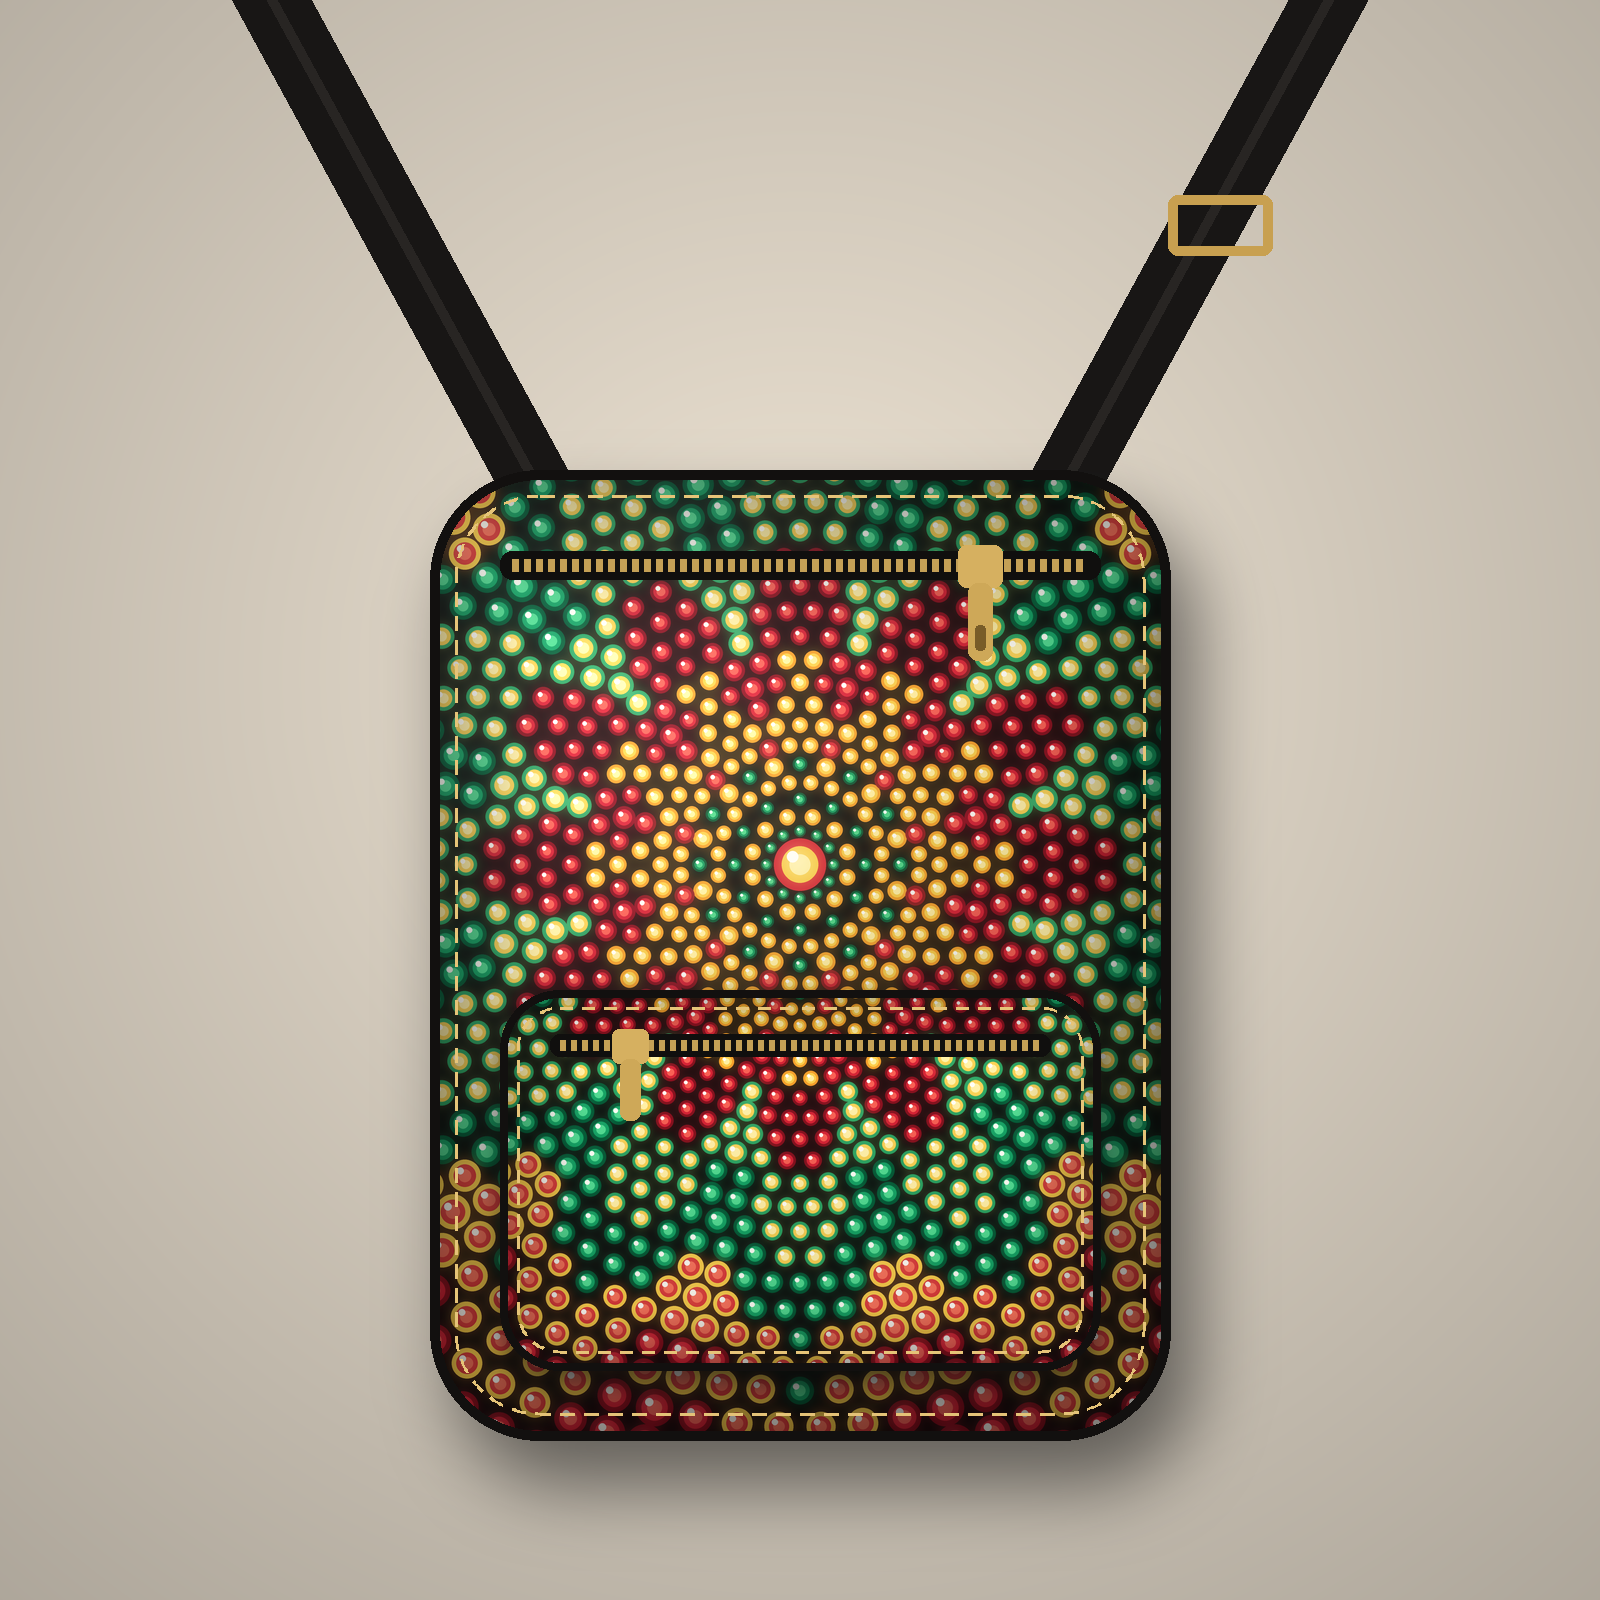
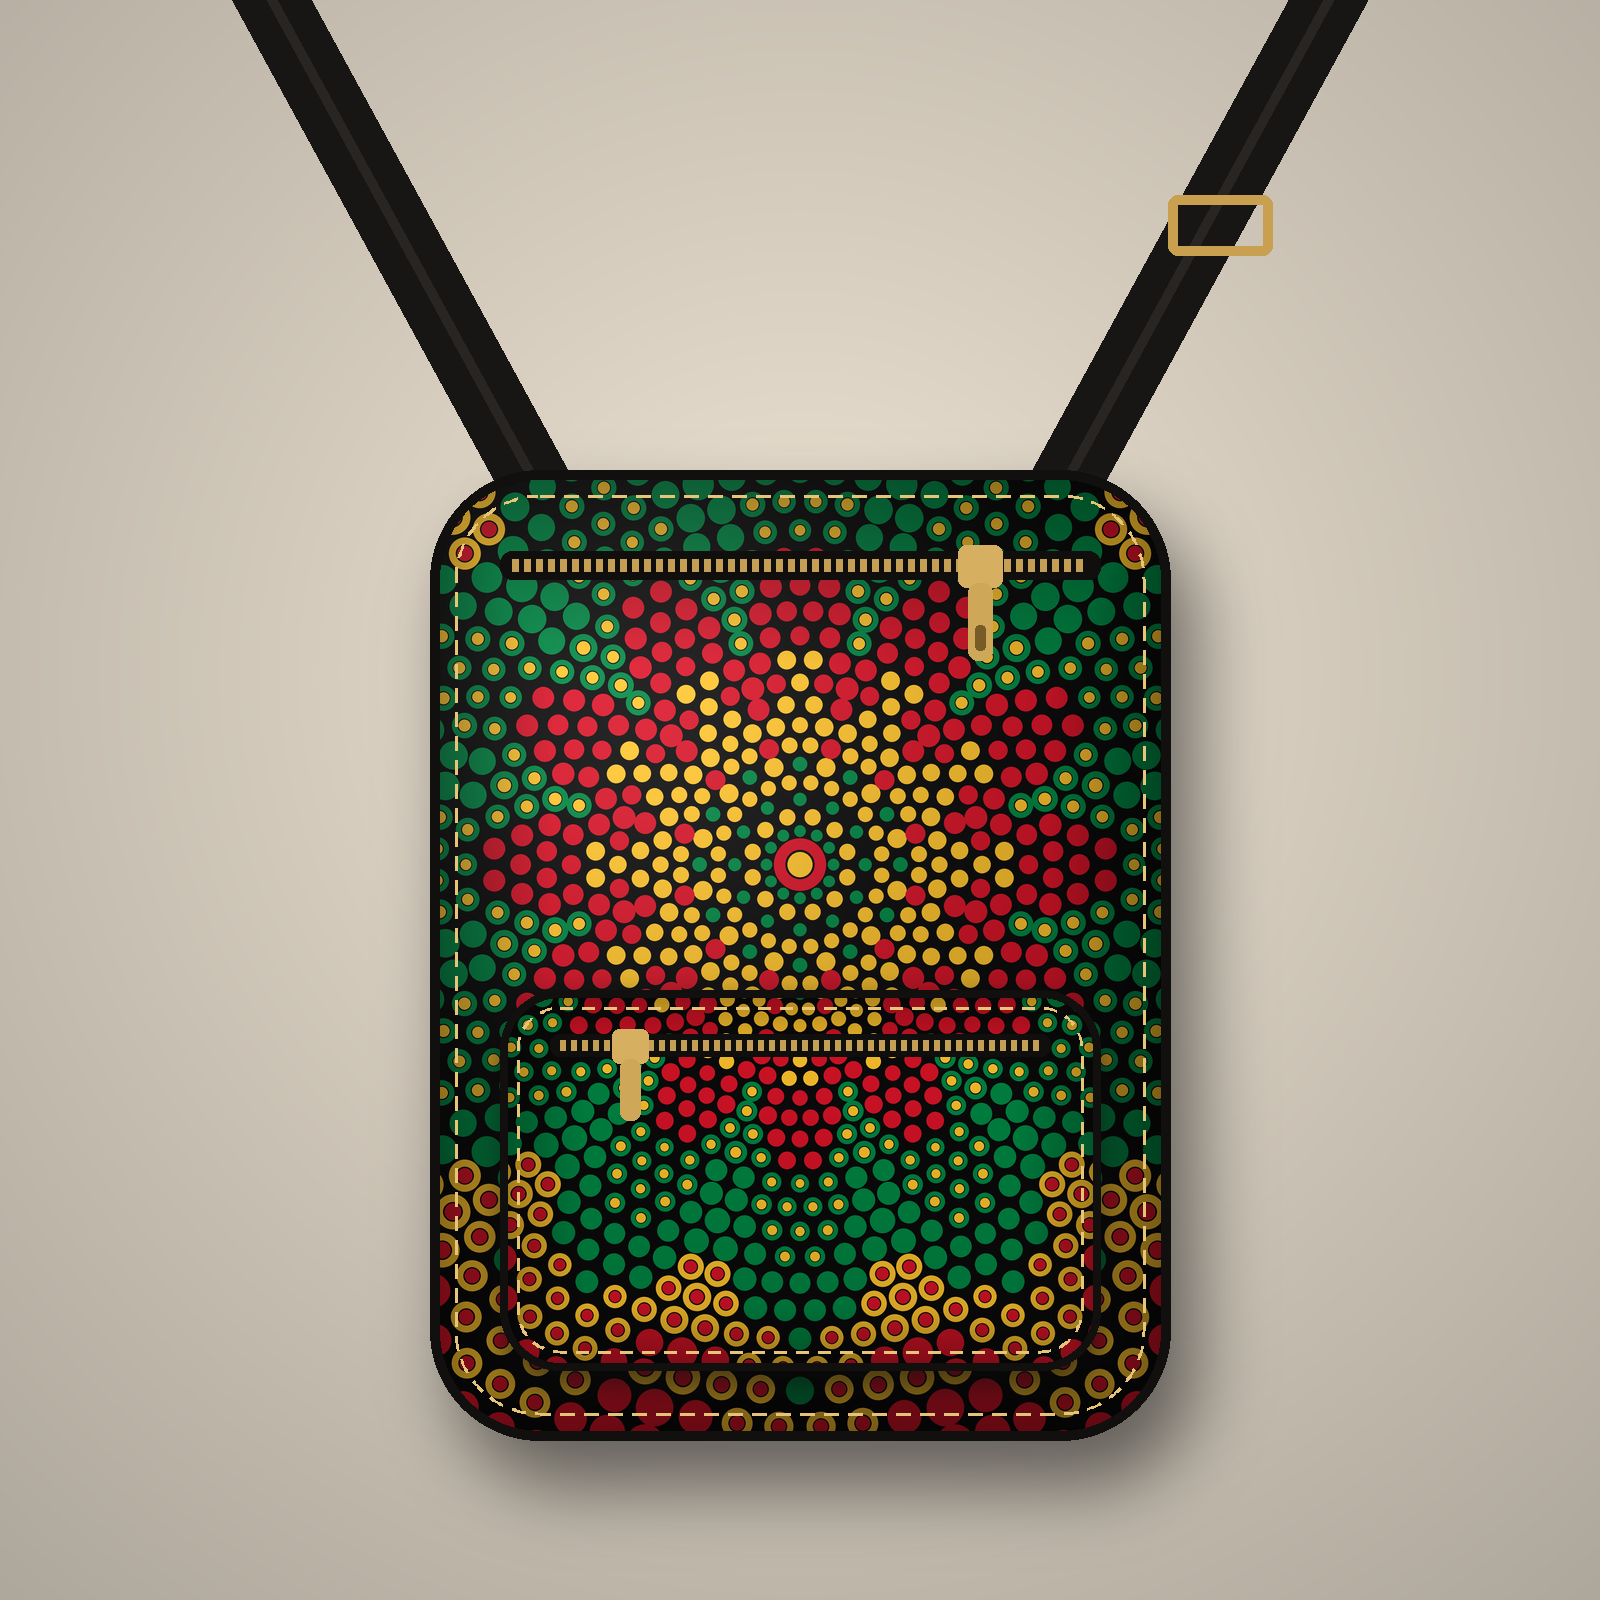
Mandala: use exactly black, gold, green and red
Drop tints, white shines and the glow that mixed the colors; dots are
flat with crisp black rings between the two colors of each dot.

Claude-Session: https://claude.ai/code/session_01Mt1Tg14bgvqpkRSeX5tTDt

Changed region(s): [[0.25, 0.2812, 0.75, 0.9062]]

diff --git a/heritage-crossbody-bag/make_mandala_design.py b/heritage-crossbody-bag/make_mandala_design.py
@@ -1,9 +1,9 @@
 """Dot-painting mandala (kaleidoscope) placement design for the crossbody bag.
 
 Usage: python3 make_mandala_design.py <out_dir>
-Densely packed layered 3D dots in the African heritage palette (red, black,
-green, gold) form scalloped petal bands radiating from a glowing center,
-reaching every corner, with a soft luminous glow.
+Densely packed dot-in-dot painting using exactly four colors (black, gold,
+green, red) forms scalloped petal bands radiating from the center out to
+every corner. No tints, shines or glow, so the colors stay true.
 
 Outputs (300 DPI, each panel = bag size + 0.5" bleed on every side):
   mandala-front_2010x2610.png
@@ -16,7 +16,7 @@ import sys
 from pathlib import Path
 
 import numpy as np
-from PIL import Image, ImageDraw, ImageFilter
+from PIL import Image, ImageDraw
 
 from make_circle_pattern import mockup
 
@@ -24,43 +24,37 @@ DPI = 300
 SS = 2
 TAU = 2 * math.pi
 
-BG = (12, 9, 9)
-DEEP_RED = (110, 8, 20)
-RED = (200, 24, 40)
-RED_L = (244, 84, 70)
-AMBER = (236, 140, 28)
-GOLD = (246, 192, 60)
-GOLD_L = (255, 232, 150)
-DEEP_GREEN = (0, 66, 38)
-GREEN = (12, 140, 80)
-GREEN_L = (70, 206, 126)
-CREAM = (252, 244, 222)
-WHITE = (255, 252, 240)
+# Exactly four colors, nothing else: black, gold, green, red
+BLACK = (10, 10, 10)
+GOLD = (232, 178, 40)
+GREEN = (0, 122, 61)
+RED = (196, 18, 36)
+BG = BLACK
 
-# dot "recipes": outer -> inner layers (dot-in-dot painting)
+# dot-in-dot recipes: outer color, inner color (each dot sits in a thin black ring)
 RECIPES = {
-    "gold": [AMBER, GOLD, GOLD_L],
-    "red": [DEEP_RED, RED, RED_L],
-    "green": [DEEP_GREEN, GREEN, GREEN_L],
-    "redgold": [RED, GOLD, GOLD_L],
-    "greengold": [GREEN, GOLD, GOLD_L],
-    "goldred": [GOLD, RED, RED_L],
-    "goldgreen": [GOLD, GREEN, GREEN_L],
-    "redgreen": [DEEP_RED, GREEN, GREEN_L],
-    "greenred": [DEEP_GREEN, RED, RED_L],
+    "gold": [GOLD],
+    "red": [RED],
+    "green": [GREEN],
+    "redgold": [RED, GOLD],
+    "greengold": [GREEN, GOLD],
+    "goldred": [GOLD, RED],
+    "goldgreen": [GOLD, GREEN],
+    "redgreen": [RED, GREEN],
+    "greenred": [GREEN, RED],
 }
 
 
 def dot(d, x, y, r, kind):
-    """A painted 3D dot: layered rings plus a small highlight."""
+    """A flat painted dot (optionally with a center dot of a second color)."""
     layers = RECIPES[kind]
-    n = len(layers)
-    for i, c in enumerate(layers):
-        rr = r * (1 - i * 0.30)
-        d.ellipse((x - rr, y - rr, x + rr, y + rr), fill=c)
-    hr = r * 0.22
-    hx, hy = x - r * 0.28, y - r * 0.30
-    d.ellipse((hx - hr, hy - hr, hx + hr, hy + hr), fill=WHITE)
+    d.ellipse((x - r, y - r, x + r, y + r), fill=layers[0])
+    if len(layers) > 1:
+        rr = r * 0.48
+        # thin black ring keeps the two colors crisp instead of blending
+        rb = rr + r * 0.08
+        d.ellipse((x - rb, y - rb, x + rb, y + rb), fill=BLACK)
+        d.ellipse((x - rr, y - rr, x + rr, y + rr), fill=layers[1])
 
 
 def compose(W, H, bands, petals=12, center=(0.5, 0.42), twist=0.0):
@@ -97,11 +91,7 @@ def compose(W, H, bands, petals=12, center=(0.5, 0.42), twist=0.0):
         r += size * 1.05
         ring_i += 1
     im = im.resize((W, H), Image.LANCZOS)
-    # luminous glow: screen a blurred copy over the art
-    a = np.asarray(im, np.float32) / 255
-    g = np.asarray(im.filter(ImageFilter.GaussianBlur(16)), np.float32) / 255 * 0.5
-    out = 1 - (1 - a) * (1 - g)
-    return Image.fromarray((np.clip(out, 0, 1) * 255).astype(np.uint8))
+    return im
 
 
 if __name__ == "__main__":
